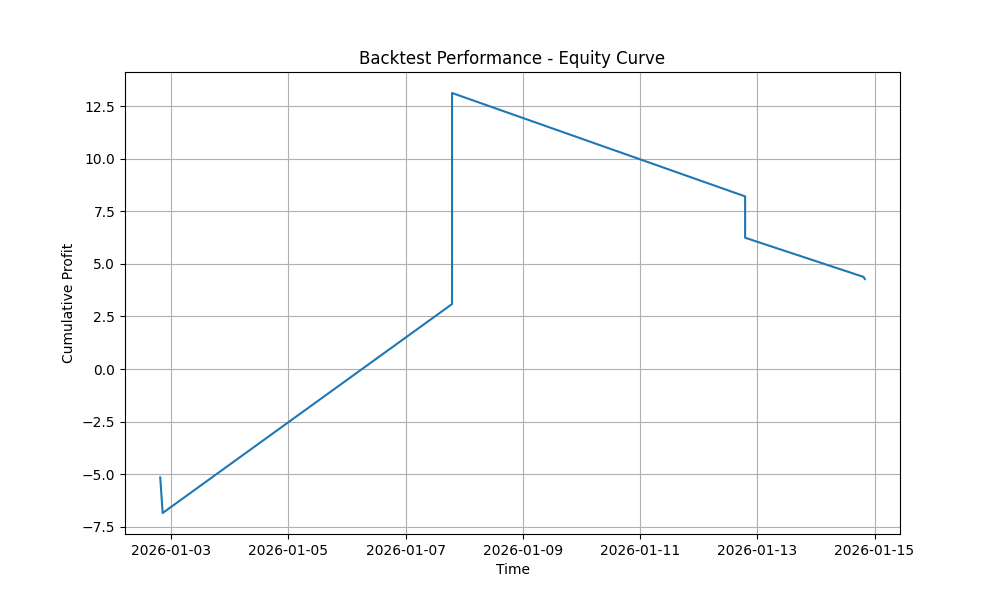
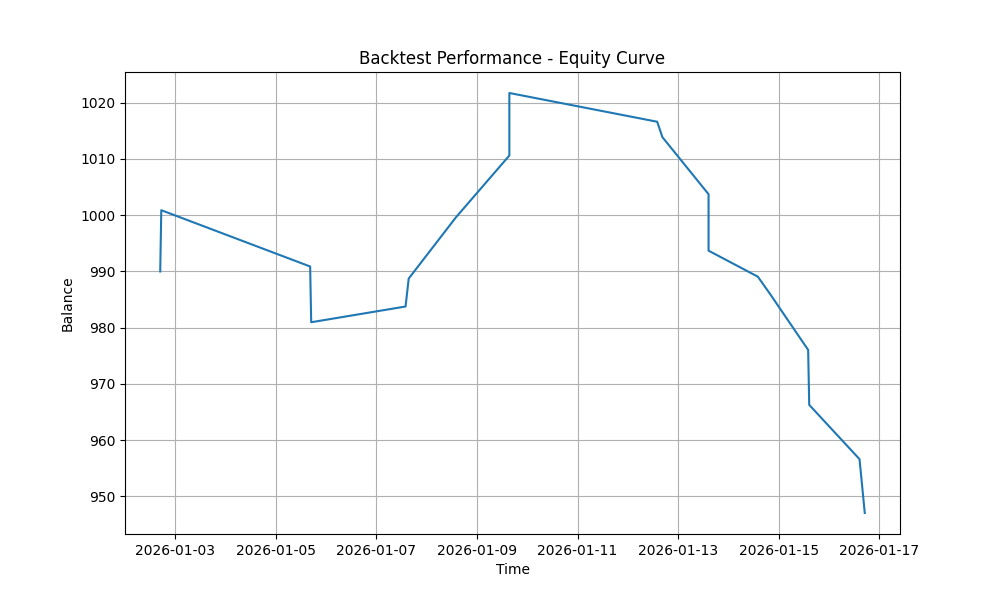
Refine trading reports: add RR 1:1.1 support, synchronize time windows to Thai-local (17-02), and implement report comparison history

diff --git a/src/log_processor.py b/src/log_processor.py
@@ -1,16 +1,22 @@
 import pandas as pd
 import matplotlib.pyplot as plt
 import os
+import json
+from datetime import datetime
 
 class LogProcessor:
     """
-    Component for processing raw data into CSV reports and visual graphs.
+    Component for processing raw data into CSV reports, visual graphs, 
+    and detailed performance summaries with comparison.
     """
-    def __init__(self, raw_data, output_dir="reports"):
+    def __init__(self, raw_data, start_hour=None, close_hour=None, output_dir="reports"):
         self.data = raw_data
+        self.start_hour = start_hour
+        self.close_hour = close_hour
         self.output_dir = output_dir
         if not os.path.exists(output_dir):
             os.makedirs(output_dir)
+        self.history_file = os.path.join(output_dir, "report_history.json")
 
     def export_to_csv(self, filename="backtest_results.csv"):
         """Save results as CSV for further analysis."""
@@ -27,13 +33,11 @@ class LogProcessor:
             return None
 
         df = pd.DataFrame(self.data)
-        
-        # Simple dummy visualization of profit over time
         plt.figure(figsize=(10, 6))
-        plt.plot(df['time'], df['profit'].cumsum())
+        plt.plot(df['entry_time'], df['balance'])
         plt.title('Backtest Performance - Equity Curve')
         plt.xlabel('Time')
-        plt.ylabel('Cumulative Profit')
+        plt.ylabel('Balance')
         plt.grid(True)
         
         path = os.path.join(self.output_dir, filename)
@@ -41,3 +45,156 @@ class LogProcessor:
         plt.close()
         print(f"Performance graph saved to {path}")
         return path
+
+    def calculate_avg_hour(self, series):
+        """Calculate average hour using circular mean to handle midnight crossing."""
+        if series.empty:
+            return 0
+        import numpy as np
+        # Convert hours to radians
+        radians = series.dt.hour * 2 * np.pi / 24 + series.dt.minute * 2 * np.pi / (24 * 60)
+        # Average the vectors
+        avg_x = np.mean(np.cos(radians))
+        avg_y = np.mean(np.sin(radians))
+        # Convert back to hours
+        avg_rad = np.arctan2(avg_y, avg_x)
+        avg_hour = avg_rad * 24 / (2 * np.pi)
+        if avg_hour < 0:
+            avg_hour += 24
+        return avg_hour
+
+    def calculate_metrics(self, df):
+        if df.empty:
+            return None
+        
+        total_orders = len(df)
+        won_trades = df[df['comment'] == 'TP']
+        lost_trades = df[df['comment'] == 'SL']
+        forced_trades = df[df['comment'].str.contains("Close", na=False)]
+        
+        win_rate = (len(won_trades) / total_orders * 100) if total_orders > 0 else 0
+        forced_pct = (len(forced_trades) / total_orders * 100) if total_orders > 0 else 0
+        normal_close_pct = 100 - forced_pct
+        
+        avg_trigger_hour = self.calculate_avg_hour(df['entry_time'])
+        
+        # TP/SL specific metrics
+        tpsl_trades = df[df['comment'].isin(['TP', 'SL'])]
+        avg_tpsl_hour = self.calculate_avg_hour(tpsl_trades['exit_time']) if not tpsl_trades.empty else 0
+        
+        # Duration (Trigger to Close) excluding forced
+        non_forced = df[~df['comment'].str.contains("Close", na=False)]
+        avg_duration = (non_forced['exit_time'] - non_forced['entry_time']).mean().total_seconds() / 3600 if not non_forced.empty else 0
+        
+        # Risk Reward (Strategy Settings: SL=1.0, TP=1.1)
+        # ตั้งแต่โค้ดระบุ TP = distance_price * 1.1 และ SL = distance_price
+        # ดังนั้น Risk:Reward คือ 1 : 1.1
+        rr_display = "1:1.1"
+        
+        # Drawdown and Recovery
+        df_copy = df.copy().reset_index(drop=True)
+        df_copy['cum_max'] = df_copy['balance'].cummax()
+        df_copy['drawdown'] = (df_copy['cum_max'] - df_copy['balance']) / df_copy['cum_max'] * 100
+        max_dd = df_copy['drawdown'].max()
+        
+        # Expected Value
+        expected_value = (df_copy['profit'].sum() / total_orders) if total_orders > 0 else 0
+
+        # Profit Recovery Time (Days)
+        recovery_days = 0
+        peak_time = df_copy.loc[0, 'entry_time']
+        for i in range(1, len(df_copy)):
+            if df_copy.loc[i, 'balance'] >= df_copy.loc[:i-1, 'balance'].max():
+                duration = (df_copy.loc[i, 'entry_time'] - peak_time).days
+                recovery_days = max(recovery_days, duration)
+                peak_time = df_copy.loc[i, 'entry_time']
+
+        return {
+            "Total Orders": total_orders,
+            "WinRate (%)": round(win_rate, 2),
+            "Normal Close (%)": round(normal_close_pct, 2),
+            "Forced Close (%)": round(forced_pct, 2),
+            "Avg Trigger Hour": f"{int(avg_trigger_hour):02d}:{int((avg_trigger_hour%1)*60):02d}",
+            "Avg TP/SL Hour": f"{int(avg_tpsl_hour):02d}:{int((avg_tpsl_hour%1)*60):02d}" if avg_tpsl_hour else "N/A",
+            "Avg Duration (Hrs)": round(avg_duration, 2),
+            "Risk Per Reward": rr_display,
+            "Max Drawdown (%)": round(max_dd, 2),
+            "Max Recovery (Days)": recovery_days,
+            "Expected Value": round(expected_value, 2)
+        }
+
+    def generate_summary_report(self):
+        df = pd.DataFrame(self.data)
+        if df.empty: return "No trades to report."
+        
+        df['entry_time'] = pd.to_datetime(df['entry_time'])
+        df['exit_time'] = pd.to_datetime(df['exit_time'])
+        
+        # Thai Time Calculation (+5 hours)
+        def to_thai(h):
+            if h is None: return "N/A"
+            thai_h = (h + 5) % 24
+            return f"{h:02d}:00 ({thai_h:02d}:00 Thai)"
+
+        report = {
+            "Timestamp": datetime.now().strftime("%Y-%m-%d %H:%M:%S"),
+            "Strategy Settings": {
+                "Trigger Setup Hour": to_thai(self.start_hour),
+                "Forced Close Hour": to_thai(self.close_hour)
+            },
+            "Overall": self.calculate_metrics(df),
+            "SetUp1 (61.8%)": self.calculate_metrics(df[df['setup'].str.contains("61.8")]),
+            "SetUp2 (78.6%)": self.calculate_metrics(df[df['setup'].str.contains("78.6")])
+        }
+        
+        self.display_report(report)
+        self.compare_and_save(report)
+        return report
+
+    def display_report(self, report):
+        print("\n" + "="*50)
+        print("          STRATEGY PERFORMANCE REPORT")
+        print("="*50)
+        
+        headers = ["Metric", "Overall", "SetUp1 (61.8%)", "SetUp2 (78.6%)"]
+        metrics = report["Overall"].keys()
+        
+        print(f"{headers[0]:<20} | {headers[1]:<10} | {headers[2]:<15} | {headers[3]:<15}")
+        print("-" * 70)
+        
+        for m in metrics:
+            o = report["Overall"].get(m, "N/A")
+            s1 = report["SetUp1 (61.8%)"].get(m, "N/A") if report["SetUp1 (61.8%)"] else "N/A"
+            s2 = report["SetUp2 (78.6%)"].get(m, "N/A") if report["SetUp2 (78.6%)"] else "N/A"
+            print(f"{m:<20} | {str(o):<10} | {str(s1):<15} | {str(s2):<15}")
+        print("="*70 + "\n")
+
+    def compare_and_save(self, current_report):
+        history = []
+        if os.path.exists(self.history_file):
+            with open(self.history_file, 'r') as f:
+                history = json.load(f)
+        
+        if history:
+            last_report = history[-1]
+            print("COMPARISON WITH PREVIOUS REPORT:")
+            print(f"(Previous: {last_report['Timestamp']})")
+            
+            o_curr = current_report["Overall"]["WinRate (%)"]
+            o_last = last_report["Overall"]["WinRate (%)"]
+            diff = o_curr - o_last
+            symbol = "+" if diff > 0 else ""
+            print(f"Overall WinRate Change: {symbol}{diff:.2f}% ({o_last}% -> {o_curr}%)")
+            
+            p_curr = current_report["Overall"]["Expected Value"]
+            p_last = last_report["Overall"]["Expected Value"]
+            diff_p = p_curr - p_last
+            symbol_p = "+" if diff_p > 0 else ""
+            print(f"Expected Value Change: {symbol_p}{diff_p:.2f} ({p_last} -> {p_curr})")
+            print("-" * 30 + "\n")
+        
+        history.append(current_report)
+        # Keep only the last 2 reports
+        history = history[-2:]
+        with open(self.history_file, 'w') as f:
+            json.dump(history, f, indent=4)

diff --git a/backtest_london_ny.py b/backtest_london_ny.py
@@ -13,6 +13,8 @@ class LondonNYBacktester:
         self.trades = []
         self.magic_number = 123456
         self.fibo_levels = [0.618, 0.786]
+        self.start_hour = 14
+        self.close_hour = 21
         
         if not mt5.initialize():
             print("MT5 Initialization failed", flush=True)
@@ -52,8 +54,8 @@ class LondonNYBacktester:
             day_data = df[df['date'] == date].copy()
             if len(day_data) < 10: continue
 
-            # Logic at 19:00
-            range_data = day_data[(day_data['time'].dt.hour >= 8) & (day_data['time'].dt.hour < 19)]
+            # Logic at start_hour
+            range_data = day_data[(day_data['time'].dt.hour >= 9) & (day_data['time'].dt.hour < self.start_hour)]
             if range_data.empty: continue
 
             max_idx = range_data['high'].idxmax()
@@ -77,15 +79,15 @@ class LondonNYBacktester:
             start_search_idx = last_idx_before_20 + 1
             if start_search_idx >= len(df): continue
             
-            # Find 02:00 limit (Next day)
-            force_close_time = datetime.combine(date + timedelta(days=1), time(2, 0))
+            # Find close_hour limit (Same day)
+            force_close_time = datetime.combine(date, time(self.close_hour, 0))
             future_data = df.iloc[start_search_idx:]
             
             if low_time < high_time: # BUY SETUP
                 for fibo in self.fibo_levels:
                     entry_price = round(high_price - (price_range * fibo), 5)
                     sl_price = entry_price - distance_price
-                    tp_price = entry_price + (distance_price * 0.5)
+                    tp_price = entry_price + (distance_price * 1.1)
                     
                     for idx, row in future_data.iterrows():
                         if row['time'] >= force_close_time: break # Order Expired
@@ -98,27 +100,27 @@ class LondonNYBacktester:
                             for t_idx, t_row in trade_data.iterrows():
                                 if t_row['time'] >= force_close_time:
                                     # Forced Close at 02:00
-                                    self.record_trade(entry_time, "BUY", entry_price, t_row['open'], (t_row['open'] - entry_price) / distance_price, "02:00 Close")
+                                    self.record_trade(entry_time, t_row['time'], "BUY", f"SetUp {'1' if fibo == 0.618 else '2'} ({fibo*100}%)", entry_price, t_row['open'], (t_row['open'] - entry_price) / distance_price, "02:00 Close")
                                     closed = True
                                     break
                                 elif t_row['low'] <= sl_price:
-                                    self.record_trade(entry_time, "BUY", entry_price, sl_price, -1.0, f"Fibo {fibo} SL")
+                                    self.record_trade(entry_time, t_row['time'], "BUY", f"SetUp {'1' if fibo == 0.618 else '2'} ({fibo*100}%)", entry_price, sl_price, -1.0, "SL")
                                     closed = True
                                     break
                                 elif t_row['high'] >= tp_price:
-                                    self.record_trade(entry_time, "BUY", entry_price, tp_price, 1.0, f"Fibo {fibo} TP")
+                                    self.record_trade(entry_time, t_row['time'], "BUY", f"SetUp {'1' if fibo == 0.618 else '2'} ({fibo*100}%)", entry_price, tp_price, 1.1, "TP")
                                     closed = True
                                     break
                             if not closed and not trade_data.empty: # Fallback if end of history
                                 last_row = trade_data.iloc[-1]
-                                self.record_trade(entry_time, "BUY", entry_price, last_row['close'], (last_row['close'] - entry_price) / distance_price, "End of History")
+                                self.record_trade(entry_time, last_row['time'], "BUY", f"SetUp {'1' if fibo == 0.618 else '2'} ({fibo*100}%)", entry_price, last_row['close'], (last_row['close'] - entry_price) / distance_price, "End of History")
                             break
             
             elif high_time < low_time: # SELL SETUP
                 for fibo in self.fibo_levels:
                     entry_price = round(low_price + (price_range * fibo), 5)
                     sl_price = entry_price + distance_price
-                    tp_price = entry_price - (distance_price * 0.5)
+                    tp_price = entry_price - (distance_price * 1.1)
                     
                     for idx, row in future_data.iterrows():
                         if row['time'] >= force_close_time: break # Order Expired
@@ -130,29 +132,31 @@ class LondonNYBacktester:
                             for t_idx, t_row in trade_data.iterrows():
                                 if t_row['time'] >= force_close_time:
                                     # Forced Close at 02:00
-                                    self.record_trade(entry_time, "SELL", entry_price, t_row['open'], (entry_price - t_row['open']) / distance_price, "02:00 Close")
+                                    self.record_trade(entry_time, t_row['time'], "SELL", f"SetUp {'1' if fibo == 0.618 else '2'} ({fibo*100}%)", entry_price, t_row['open'], (entry_price - t_row['open']) / distance_price, "02:00 Close")
                                     closed = True
                                     break
                                 elif t_row['high'] >= sl_price:
-                                    self.record_trade(entry_time, "SELL", entry_price, sl_price, -1.0, f"Fibo {fibo} SL")
+                                    self.record_trade(entry_time, t_row['time'], "SELL", f"SetUp {'1' if fibo == 0.618 else '2'} ({fibo*100}%)", entry_price, sl_price, -1.0, "SL")
                                     closed = True
                                     break
                                 elif t_row['low'] <= tp_price:
-                                    self.record_trade(entry_time, "SELL", entry_price, tp_price, 1.0, f"Fibo {fibo} TP")
+                                    self.record_trade(entry_time, t_row['time'], "SELL", f"SetUp {'1' if fibo == 0.618 else '2'} ({fibo*100}%)", entry_price, tp_price, 1.1, "TP")
                                     closed = True
                                     break
                             if not closed and not trade_data.empty:
                                 last_row = trade_data.iloc[-1]
-                                self.record_trade(entry_time, "SELL", entry_price, last_row['close'], (entry_price - last_row['close']) / distance_price, "End of History")
+                                self.record_trade(entry_time, last_row['time'], "SELL", f"SetUp {'1' if fibo == 0.618 else '2'} ({fibo*100}%)", entry_price, last_row['close'], (entry_price - last_row['close']) / distance_price, "End of History")
                             break
 
-    def record_trade(self, time, type, entry, exit, profit_factor, comment):
+    def record_trade(self, entry_time, exit_time, type, setup, entry, exit, profit_factor, comment):
         risk_amount = self.balance * (self.risk_percent / 100)
         profit = risk_amount * profit_factor
         self.balance += profit
         self.trades.append({
-            "time": time,
+            "entry_time": entry_time,
+            "exit_time": exit_time,
             "type": type,
+            "setup": setup,
             "entry": entry,
             "exit": exit,
             "profit": profit,
@@ -172,7 +176,8 @@ if __name__ == "__main__":
         backtester.run(data)
         print(f"Backtest Finished. Total trades: {len(backtester.trades)}", flush=True)
         print(f"Final Balance: ${backtester.balance:.2f}", flush=True)
-        logger = LogProcessor(backtester.trades)
+        logger = LogProcessor(backtester.trades, start_hour=backtester.start_hour, close_hour=backtester.close_hour)
         logger.export_to_csv("london_ny_backtest.csv")
         logger.create_performance_graph("london_ny_performance.png")
+        logger.generate_summary_report()
     backtester.shutdown()

diff --git a/src/trade_setup.py b/src/trade_setup.py
@@ -18,8 +18,8 @@ class LondonNYReversalStrategy:
         self.fibo_levels = [0.618, 0.786]
         
         # Time Settings
-        self.start_hour = 19    # เวลาเริ่มวางแผนเทรด
-        self.close_hour = 2     # เวลาปิดออเดอร์ทั้งหมด (Midnight)
+        self.start_hour = 14    # เวลาเริ่มวางแผนเทรด 5 โมงเย็น
+        self.close_hour = 21     # เวลาปิดออเดอร์ทั้งหมด ตี 2
         
         # Connection Check
         if not mt5.initialize():
@@ -136,7 +136,7 @@ class LondonNYReversalStrategy:
         self.cancel_pending_orders()
         
         # 1. Fetch Data
-        today_start = server_time.replace(hour=8, minute=0, second=0, microsecond=0)
+        today_start = server_time.replace(hour=9, minute=0, second=0, microsecond=0)
         rates = mt5.copy_rates_range(self.symbol, self.timeframe, today_start, server_time)
         
         if rates is None or len(rates) == 0:
@@ -190,11 +190,11 @@ class LondonNYReversalStrategy:
         if direction == "BUY":
             order_type = mt5.ORDER_TYPE_BUY_LIMIT
             sl = entry_price - dist_price
-            tp = entry_price + (dist_price * 0.5)
+            tp = entry_price + (dist_price * 1.1)
         else:
             order_type = mt5.ORDER_TYPE_SELL_LIMIT
             sl = entry_price + dist_price
-            tp = entry_price - (dist_price * 0.5)
+            tp = entry_price - (dist_price * 1.1)
 
         request = {
             "action": mt5.TRADE_ACTION_PENDING,
